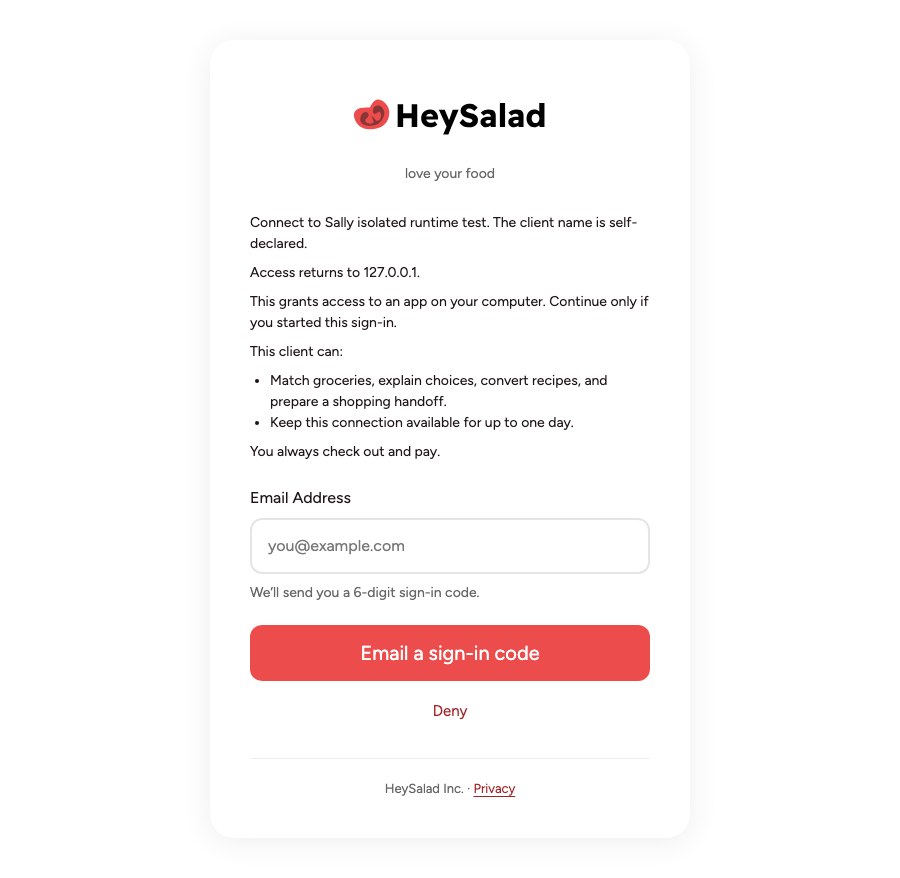
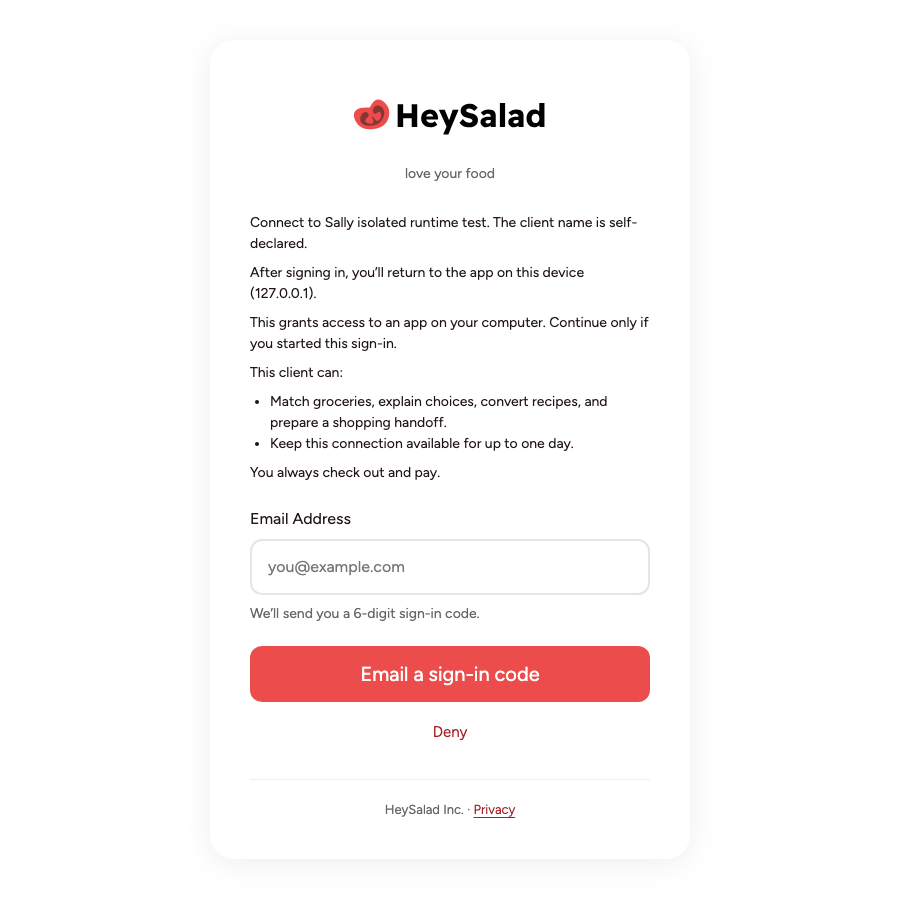
Clarify OAuth return destination and record live styling release

diff --git a/src/auth.ts b/src/auth.ts
@@ -41,7 +41,7 @@ export async function authorize(req: Request, env: Env) {
       const details = await oauth.describeConsent(auth);
       const consent = await oauth.beginConsent(auth);
       return html(
-        `<section class="consent-details" aria-label="Connection details"><p>Connect to <strong>${esc(details.clientName)}</strong>. ${details.clientDomain ? `Publisher: ${esc(details.clientDomain)}.` : "The client name is self-declared."}</p><p>Access returns to <strong>${esc(details.redirectHost)}</strong>.</p>${details.redirectIsLoopback ? "<p>This grants access to an app on your computer. Continue only if you started this sign-in.</p>" : ""}<p>This client can:</p><ul>${details.scope.map((scope) => `<li>${esc(scopeLabel(scope))}</li>`).join("")}</ul><p class="safety-note">You always check out and pay.</p></section><form method="post" action="/authorize/send"><input type="hidden" name="handle" value="${esc(consent.handle)}"><label>Email Address<input name="email" type="email" aria-label="Sally account email" placeholder="you@example.com" required autocomplete="email" maxlength="254" aria-describedby="email-hint"></label><small class="hint" id="email-hint">We’ll send you a 6-digit sign-in code.</small><button name="decision" value="approve">Email a sign-in code</button><button name="decision" value="deny" formnovalidate>Deny</button></form>`,
+        `<section class="consent-details" aria-label="Connection details"><p>Connect to <strong>${esc(details.clientName)}</strong>. ${details.clientDomain ? `Publisher: ${esc(details.clientDomain)}.` : "The client name is self-declared."}</p><p>After signing in, you’ll return to ${details.redirectIsLoopback ? `the app on this device (<strong>${esc(details.redirectHost)}</strong>)` : `<strong>${esc(details.redirectHost)}</strong>`}.</p>${details.redirectIsLoopback ? "<p>This grants access to an app on your computer. Continue only if you started this sign-in.</p>" : ""}<p>This client can:</p><ul>${details.scope.map((scope) => `<li>${esc(scopeLabel(scope))}</li>`).join("")}</ul><p class="safety-note">You always check out and pay.</p></section><form method="post" action="/authorize/send"><input type="hidden" name="handle" value="${esc(consent.handle)}"><label>Email Address<input name="email" type="email" aria-label="Sally account email" placeholder="you@example.com" required autocomplete="email" maxlength="254" aria-describedby="email-hint"></label><small class="hint" id="email-hint">We’ll send you a 6-digit sign-in code.</small><button name="decision" value="approve">Email a sign-in code</button><button name="decision" value="deny" formnovalidate>Deny</button></form>`,
         consent.headers,
         200,
         auth.redirectUri,

diff --git a/submission/verification.md b/submission/verification.md
@@ -108,3 +108,5 @@ Styled staging deployed: 186f6f5a-5fc4-491e-91cd-907b4b7b203a. Hosted MCP smoke 
 Consent header refinement: removed the visible Sally by HeySalad® heading Peter boxed in his screenshot. The official HeySalad wordmark and love your food tagline remain; browser title and accessible main landmark still identify Sally. Browser assertions now require the duplicate heading to be absent, the wordmark/tagline to be present and form Figtree to load (the removed headline no longer uses Grandstander). Desktop/mobile layout and complete proxied OAuth lifecycle pass; 68 unit tests, build/typecheck and five UI tests pass. Updated synthetic preview screenshots. Canonical production styling remains pending the previously requested approval.
 
 Header removal staged in Worker bf51a317-d233-48b6-a79b-733589675bb9; browser reload confirms only the wordmark and tagline in the header. No user email/code submitted.
+
+Peter approved publishing the revised sign-in styling. Canonical Worker c1ff24e5-4754-4dbc-a362-4a665443cfd8 first published the card and heading removal. Follow-up copy review clarified the validated callback host: loopback now says “After signing in, you’ll return to the app on this device (127.0.0.1).”; non-loopback names the actual validated return host. No redirect/auth method/access change. Final canonical Worker 45ab6e40-564d-442c-8b15-3337162f7ec2 and staging 8e8e949e-6e5f-410d-a4c4-1fb4830cd71c contain that wording. Actual canonical browser view confirms wordmark/tagline, no duplicate heading, and the clearer loopback text (oauth-live-return-wording.png; synthetic registered client, no email/code submitted). 68 unit tests, typecheck/build, proxied complete OAuth/browser lifecycle, five UI tests, format and secrets checks pass. Prior styling approval is fulfilled; earlier pending styling entries are historical. Existing ChatGPT app still uses its original staging issuer.
